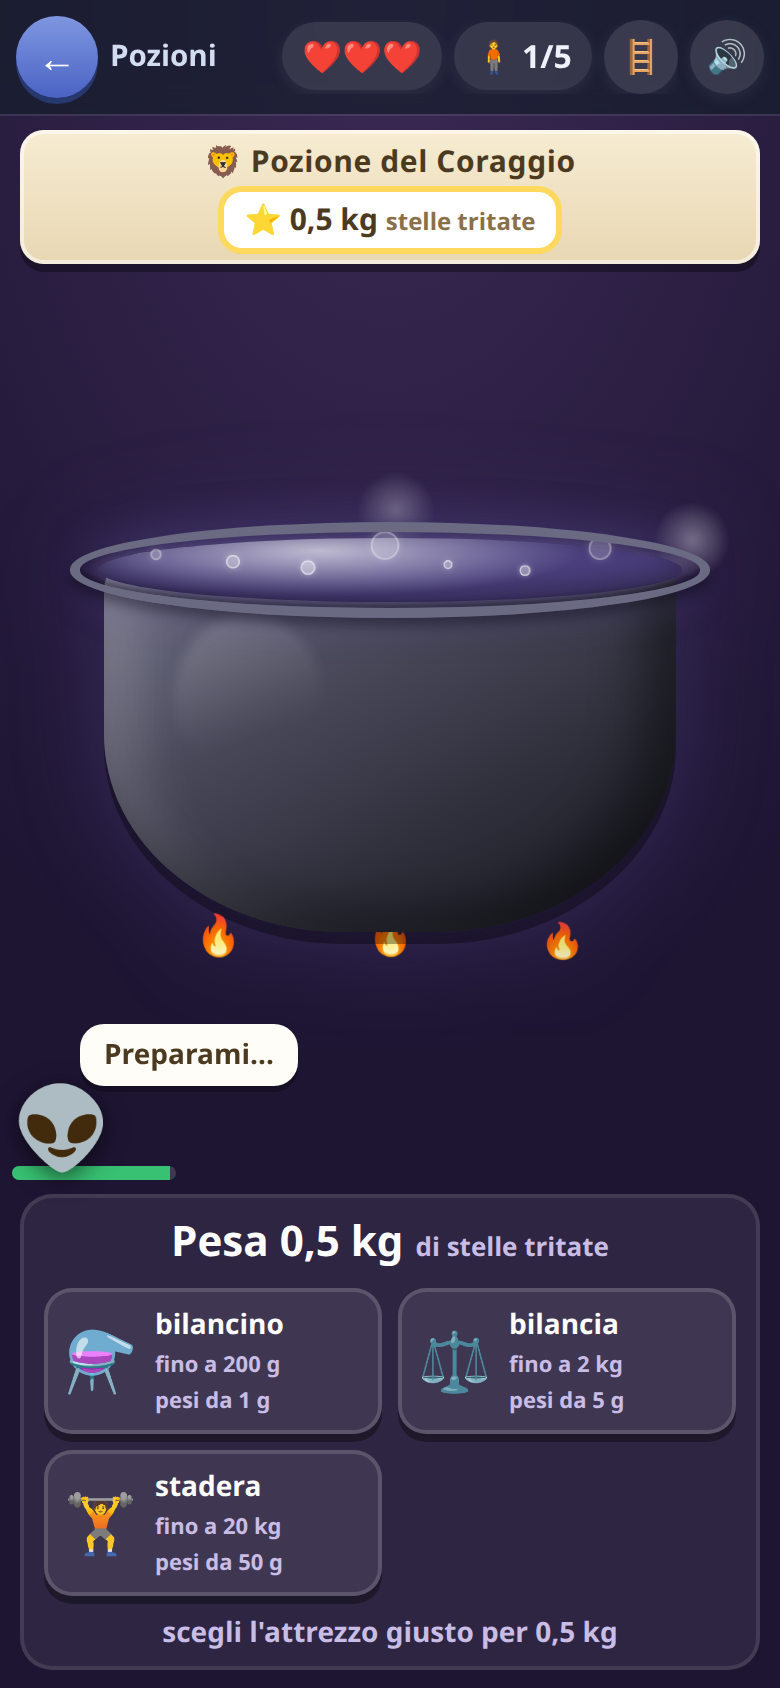
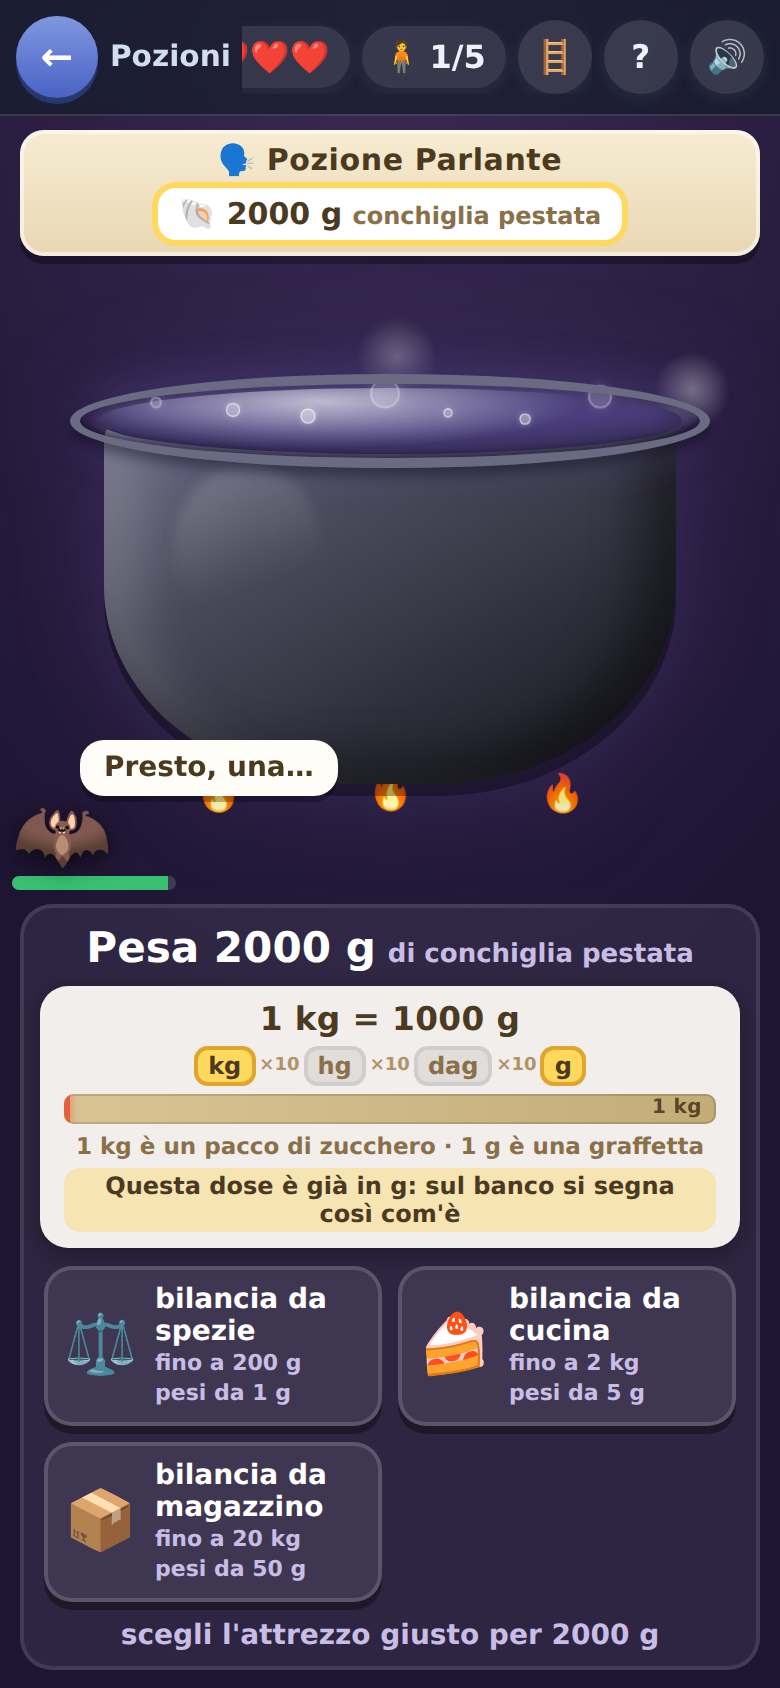
pozioni: le foto della documentazione mostravano una fila che non c'è più
`docs/img/pozioni-mappa.png` fotografava otto tappe e `pozioni-gioco.png`
una dose senza nessun cartello: le due immagini che il README e la pagina
del gioco mettono in cima raccontavano il gioco di prima. Rifatte con
`npm run scatti pozioni`.

Nel profilo finto del banco fotografico il `lab` prende il suo `v` per
esteso: quel numero è scritto a mano, e farlo passare dalla tabella delle
vecchie otto tappe vorrebbe dire una foto che cambia da sola il giorno in
cui la tabella cambia.

Claude-Session: https://claude.ai/code/session_013WQBiGspwLvt87PmWBpVB7

diff --git a/src/views/PozioniGame.vue b/src/views/PozioniGame.vue
@@ -171,10 +171,11 @@ function piuDebole(scale) {
    (`saltaLeSpiegazioni`): un test rigioca la stessa «prima volta» a ogni
    giro, e una prima ricetta scritta già in grammi gli cambierebbe sotto i
    piedi tutto quello che sta misurando. Chi vuole provarla chiede
-   `apriGioco(browser, { spiegazioni: true })`. */
-/* la copia non è pignoleria: `misureFresche()` è sempre lo stesso oggetto
+   `apriGioco(browser, { spiegazioni: true })`.
+
+   La copia non è pignoleria: `misureFresche()` è sempre lo stesso oggetto
    del profilo, e un ref che riceve la stessa referenza non sveglia
-   nessuno — il cartello non tornerebbe finché non cambia ricetta */
+   nessuno — il cartello non tornerebbe finché non cambia ricetta. */
 const aiuti = () => (saltaLeSpiegazioni() ? null : { ...misureFresche() })
 const fresche = ref(aiuti())
 
